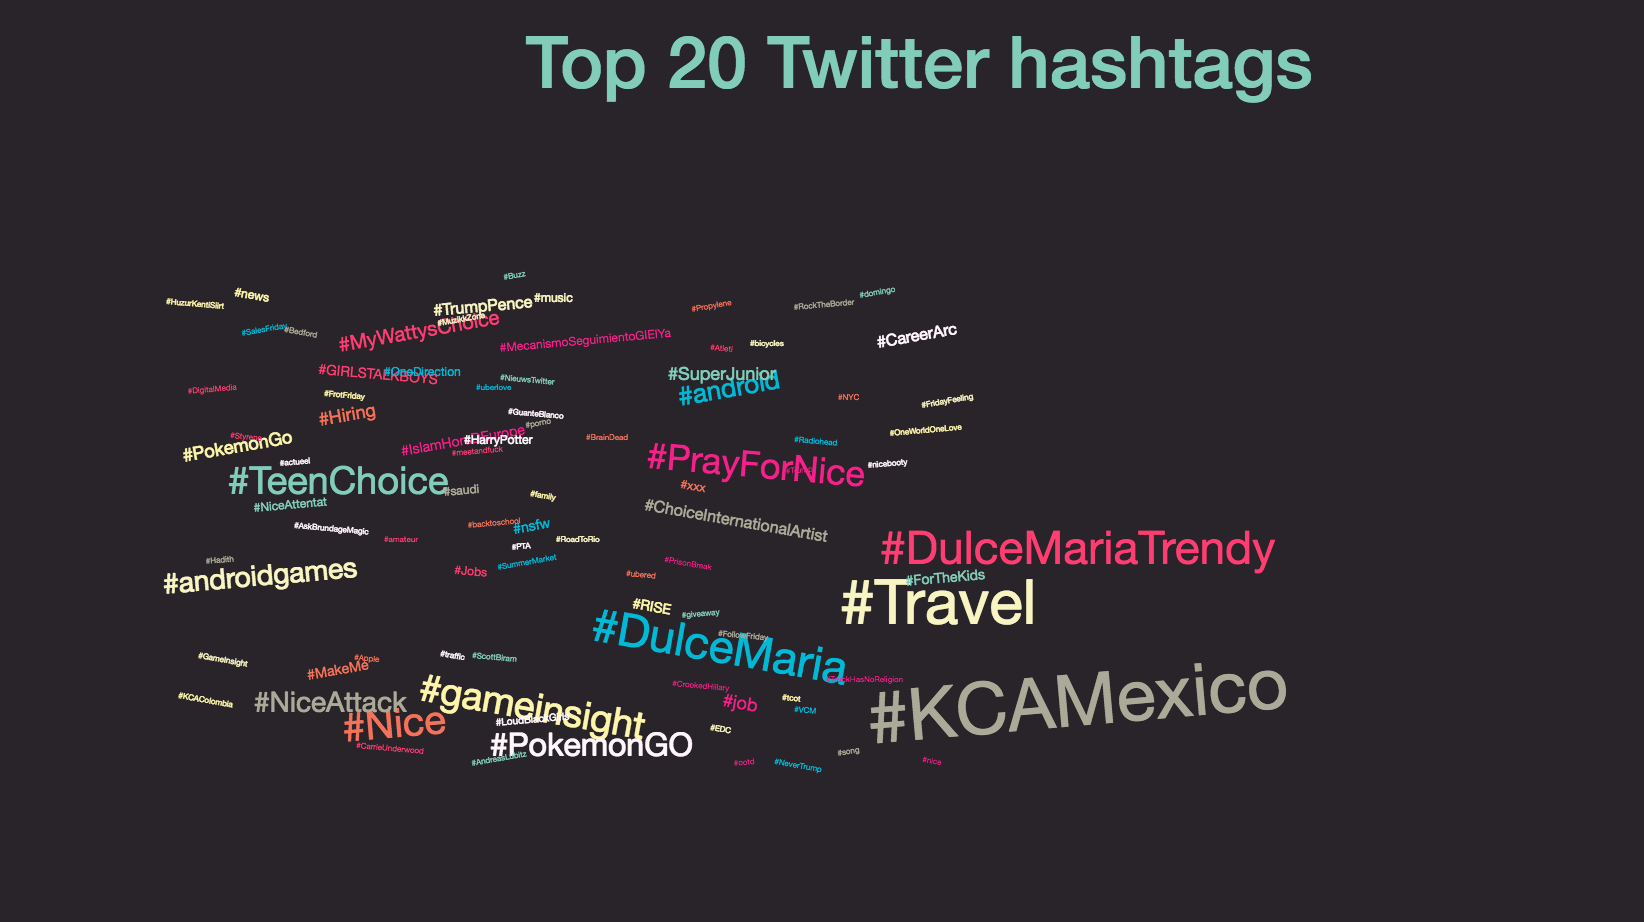
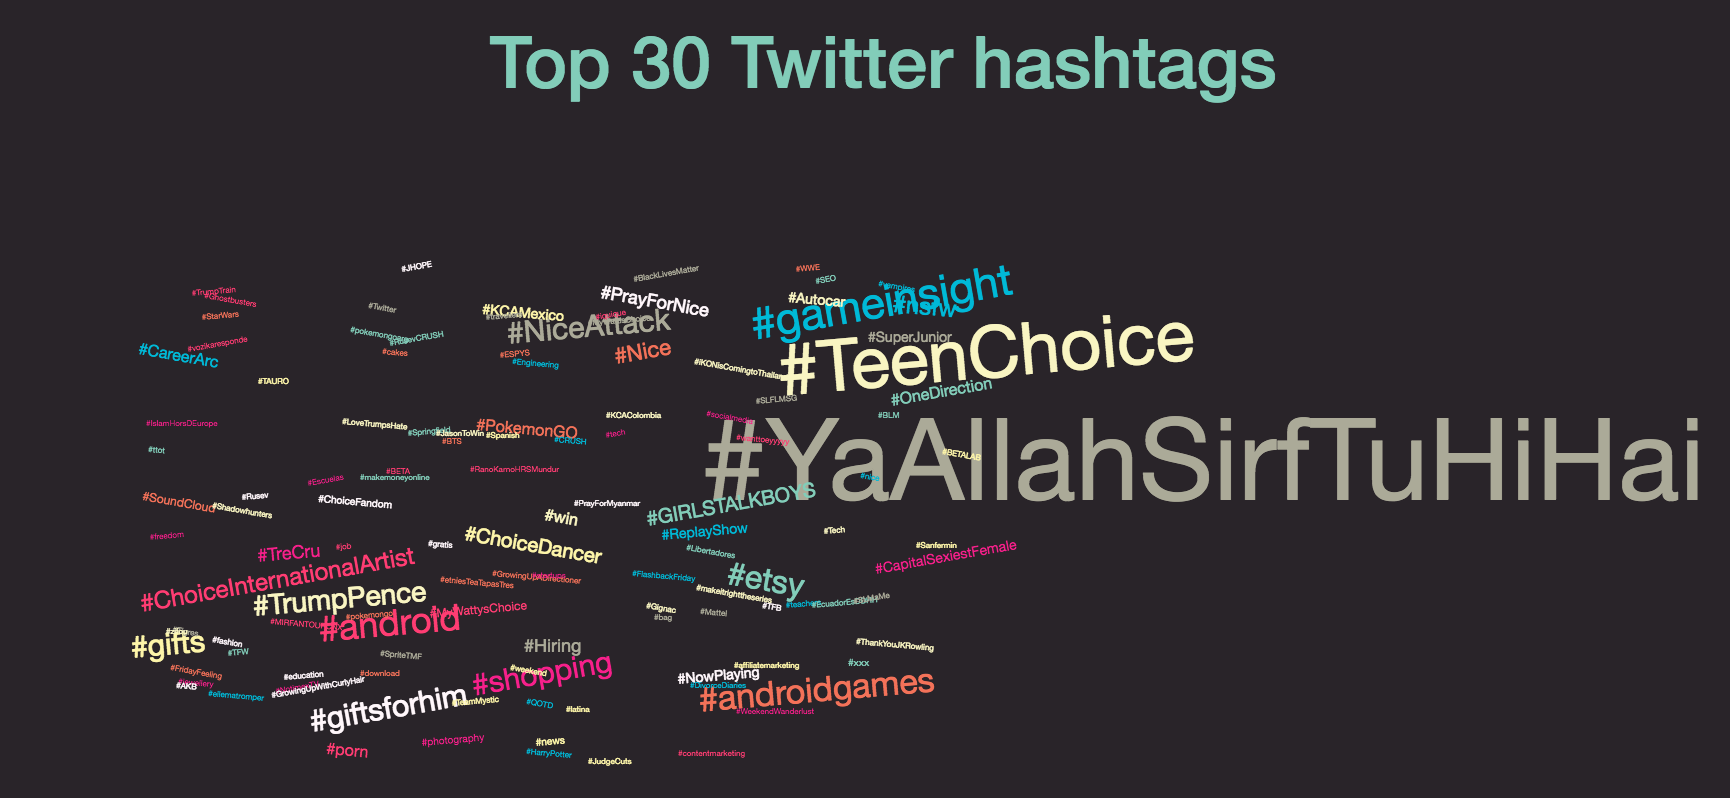
Fix title

diff --git a/viz/templates/cloud.html b/viz/templates/cloud.html
@@ -17,7 +17,7 @@
   <script src="/static/d3.layout.cloud.js"></script>
 </head>
 <body>
-  <h1>Top 20 Twitter hashtags</h1>
+  <h1>Top 30 Twitter hashtags</h1>
   <div id="container"></div>
 </body>
 <script src="/static/default.js"></script>
